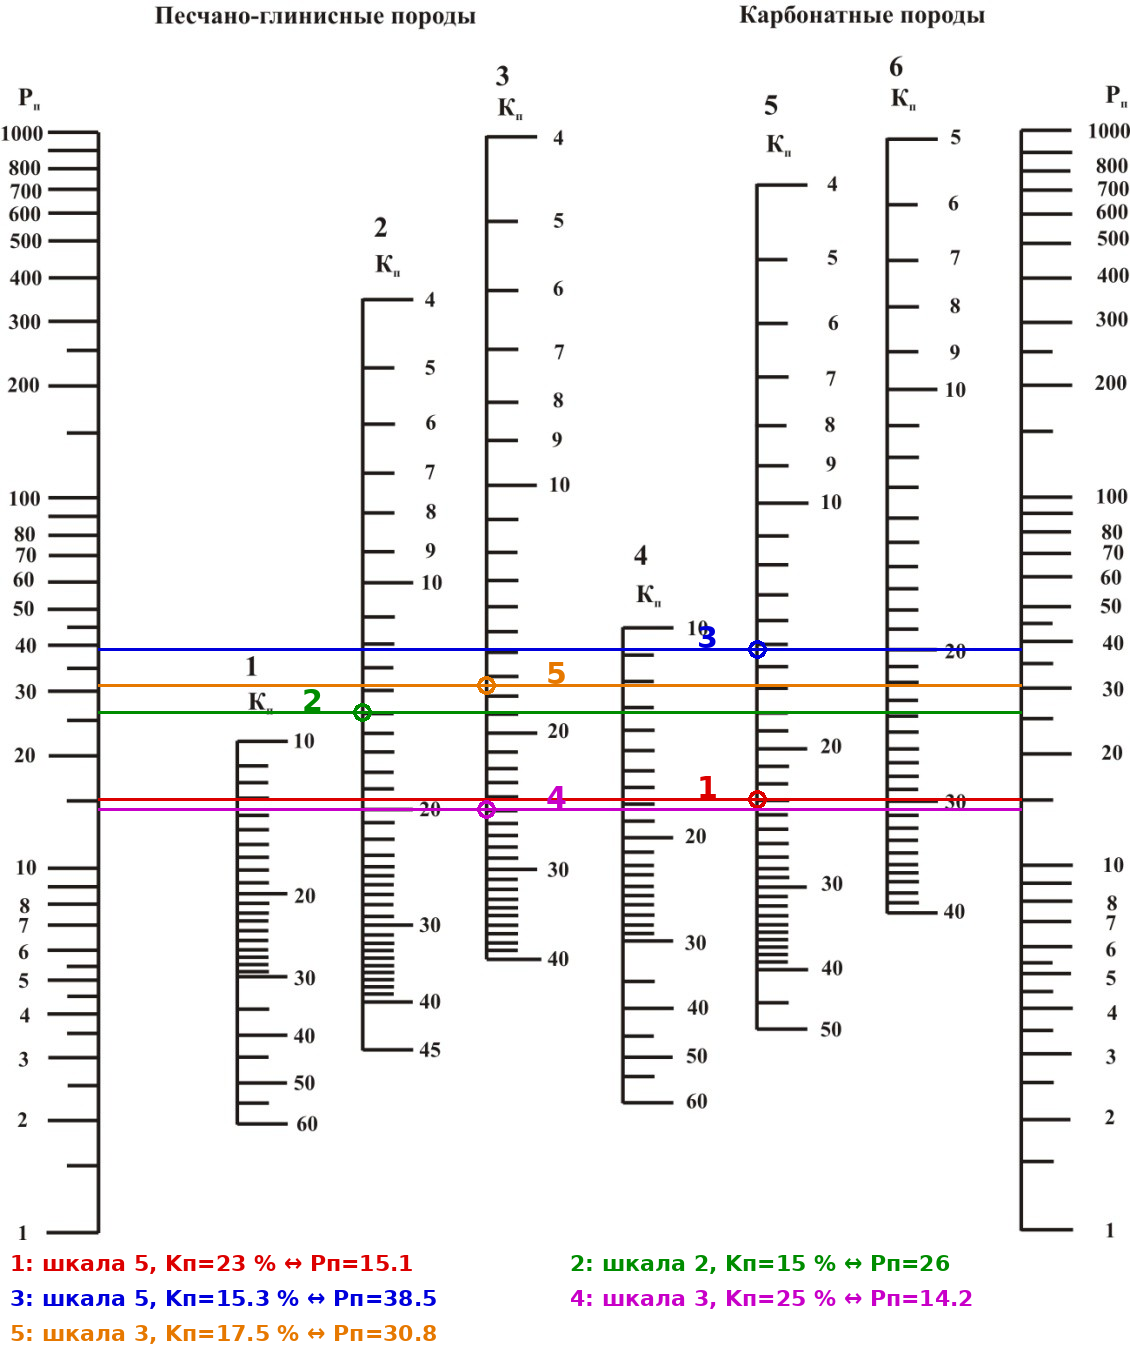
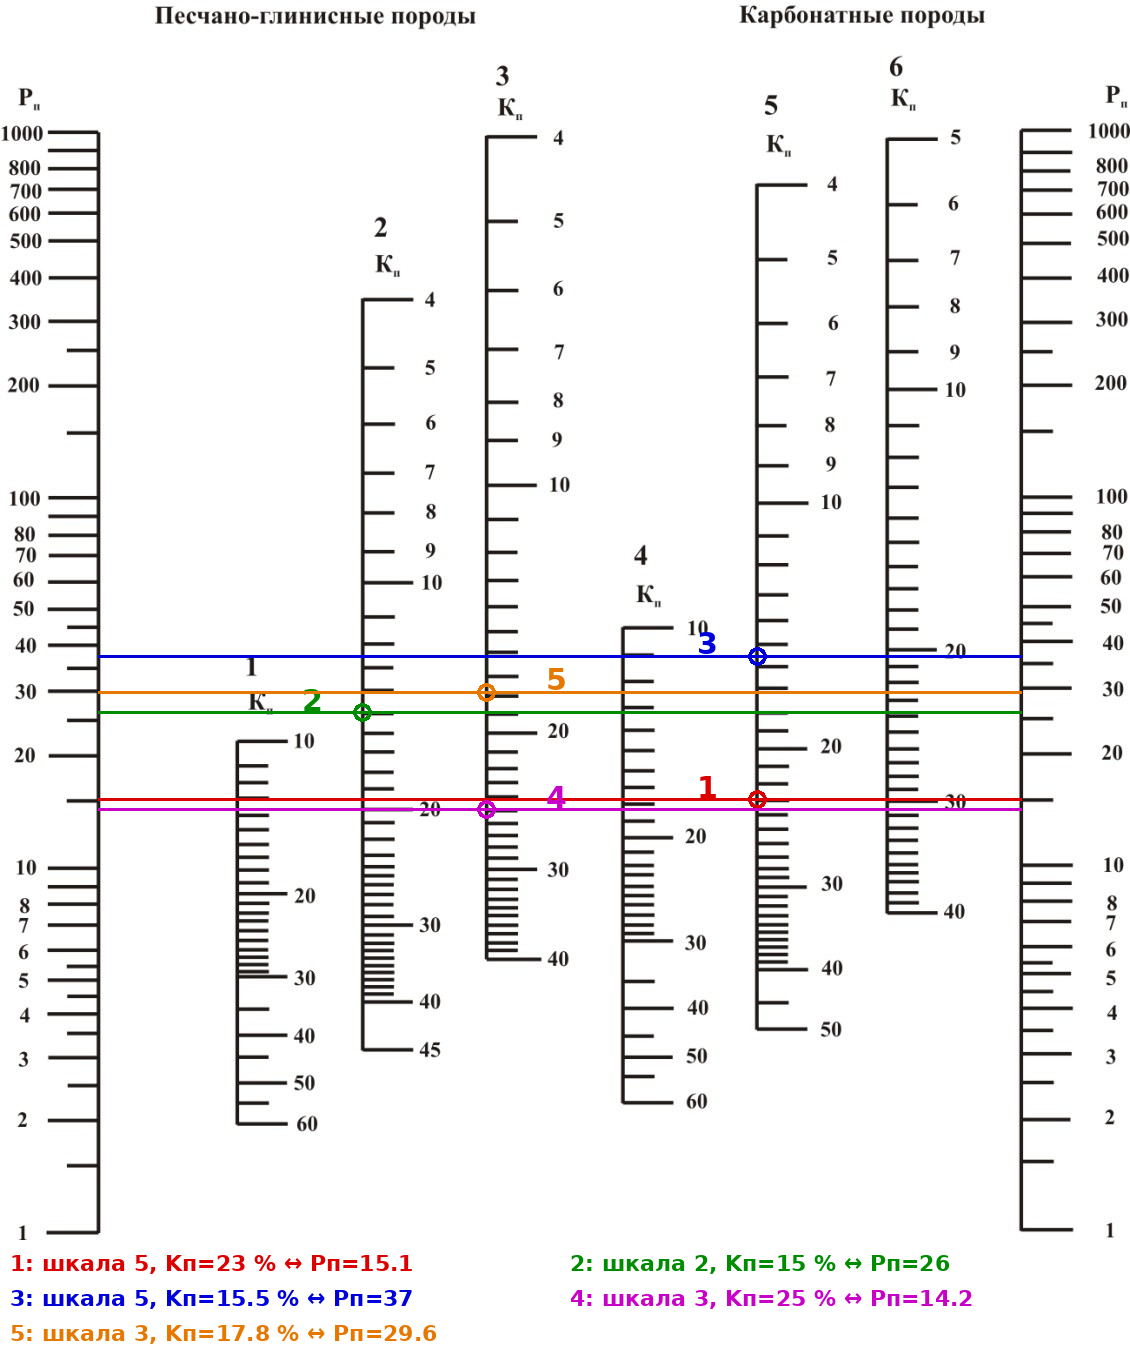
ДЗ-1 (вариант 4): решение, построения на палетках ρв/Pп/Pн; оцифровка палетки ρв (ПАЛ стр.24); исправлена таблица номограммы Pн (Л03 сл.15)
Claude-Session: https://claude.ai/code/session_016ZZjBPfZXPyDoaEvMWrXzx

Changed region(s): [[0.0929, 0.4632, 0.8982, 0.525], [0.3407, 0.9574, 0.3717, 0.9882]]

diff --git a/03_ДЗ/ДЗ-1/РЕШЕНИЕ.md b/03_ДЗ/ДЗ-1/РЕШЕНИЕ.md
@@ -1,0 +1,77 @@
+# ДЗ-1, вариант 4 — Kп, Kн, УЭС пород-коллекторов
+
+**Задание** (`ДЗ1-а_задание_вариант4.jpg`): выполнить расчёты по определению Kп и Kн, а также УЭС пород-коллекторов; заполнить таблицу.
+**Палетки:** 1-I — ρв растворов NaCl = f(C, t) (= ПАЛ стр. 24, Л03 сл. 6, Лат2007 рис. 1); 9-II — Kп по Pп (= Л03 сл. 9, Лат2007 рис. 4); 6-III — Kв, Kнг по Pн (= Л03 сл. 15, Лат2007 рис. 7а).
+
+## Ответ — заполненная таблица
+
+| № | Порода | Cв | Tпл, °C | Kп, % | Kн, % | ρв, Ом·м | Pп | Pн | ρвп, Ом·м | ρнп, Ом·м |
+|---|---|---|---|---|---|---|---|---|---|---|
+| 1 | Доломит крупнокристаллический, средней уплотнённости | 1,5 кг-экв/м³ | 140 | 23 | **85** | **0,022** | **15** | **19** | **0,33** | 6,3 |
+| 2 | Песчаник слабосцементированный, гидрофобный | 2 кг/м³ | 5 | 15 | 75 | **4,3** | **26** | **76** | **112** | **≈ 8,5·10³** |
+| 3 | Доломит крупнокристаллический, средней уплотнённости | 2,5 кг-экв/м³ | 30 | **15,5** | 65 | **0,054** | **37** | **4,5** | 2 | **9,0** |
+| 4 | Песчаник среднесцементированный | 20 кг/м³ | 60 | 25 | 90 | **0,17** | **14** | **100** | **2,4** | **≈ 240** |
+| 5 | Песчаник среднесцементированный, гидрофобный | 100 кг/м³ | 100 | **18** | **33** | **0,027** | **30** | **3** | 0,8 | 2,4 |
+
+Жирным — найденные величины. Точность снятия с палеток ≈ ±3–5 % (ρв, Pп, Pн), ±0,5–1 % абс. (Kп, Kв).
+
+## Формулы (Л03 сл. 7, 11; Лат2007 формулы (2), (10))
+- ρвп = Pп·ρв — УЭС породы при 100 % водонасыщении (1-й закон Арчи–Дахнова, Pп = aм/Kпᵐ).
+- ρнп = Pн·ρвп = Pн·Pп·ρв — УЭС нефтенасыщенной породы (Pн = aн/Kвⁿ).
+- Отсюда: Pп = ρвп/ρв; Pн = ρнп/ρвп; Kн = 100 − Kв (%).
+
+## Как пользоваться палетками
+- **1-I:** по оси X — концентрация: шкала **C, кг/м³ (г/л)** — верхняя; шкала **Cн, кг-экв/м³** — вторая (для строк 1 и 3 отсчитываем прямо по ней; для NaCl 1 кг-экв/м³ ≈ 58,5 кг/м³, т.е. 1,5 → ≈ 88 кг/м³, 2,5 → ≈ 146 кг/м³). Вверх до кривой пластовой температуры → влево, отсчёт ρв. Кривые подписаны t, °C; подписи разрывают кривые — нужную кривую прослеживать до подписи.
+- **9-II:** Kп и Pп — **напротив друг друга по горизонтали**; шкала по типу породы: доломит крупнокристаллический средней уплотнённости → шкала «известняки и доломиты крупнокристаллические, средней уплотнённости»; песчаники — «слабо-» / «среднесцементированные».
+- **6-III:** Pн ↔ Kв (Kнг) по горизонтали; доломиты → «карбонатные коллекторы»; гидрофобные песчаники → «гидрофобные».
+
+## Решение по строкам
+
+**1. Доломит, Cн = 1,5 кг-экв/м³, 140 °C, Kп = 23 %, ρнп = 6,3 Ом·м**
+1. Палетка 1-I: Cн = 1,5 → кривая 140 °C → **ρв ≈ 0,022 Ом·м**.
+2. Номограмма 9-II (доломиты крупнокрист., средн. уплотн.): Kп = 23 % → **Pп ≈ 15**.
+3. ρвп = Pп·ρв = 15,1·0,022 = **0,33 Ом·м**.
+4. Pн = ρнп/ρвп = 6,3/0,33 = **19**.
+5. Номограмма 6-III (карбонатные): Pн = 19 → Kв ≈ 15 % → **Kн = 100 − 15 = 85 %**.
+
+**2. Песчаник слабосцементированный, гидрофобный, C = 2 кг/м³, 5 °C, Kп = 15 %, Kн = 75 %**
+1. 1-I: C = 2 → кривые 0 °C (ρ ≈ 4,9) и 10 °C (ρ ≈ 3,75); 5 °C — посередине (в логарифмах) → **ρв ≈ 4,3 Ом·м**.
+2. 9-II (слабосцементированные песчаники): Kп = 15 % → **Pп ≈ 26**.
+3. ρвп = 26·4,3 = **112 Ом·м**.
+4. Kв = 100 − 75 = 25 % → 6-III (гидрофобные) → **Pн ≈ 76**.
+5. ρнп = Pн·ρвп = 76·112 ≈ **8,5·10³ Ом·м** (очень пресная вода и низкая температура → огромное сопротивление).
+
+**3. Доломит, Cн = 2,5 кг-экв/м³, 30 °C, Kн = 65 %, ρвп = 2 Ом·м**
+1. 1-I: Cн = 2,5 → кривая 30 °C → **ρв ≈ 0,054 Ом·м**.
+2. Pп = ρвп/ρв = 2/0,054 = **37**.
+3. 9-II (доломиты крупнокрист., средн. уплотн.): Pп = 37 → **Kп ≈ 15,5 %**.
+4. Kв = 100 − 65 = 35 % → 6-III (карбонатные) → **Pн ≈ 4,5**.
+5. ρнп = 4,5·2 = **9,0 Ом·м**.
+
+**4. Песчаник среднесцементированный, C = 20 кг/м³, 60 °C, Kп = 25 %, Kн = 90 %**
+1. 1-I: C = 20 → кривая 60 °C → **ρв ≈ 0,17 Ом·м** (0,167).
+2. 9-II (среднесцементированные песчаники): Kп = 25 % → **Pп ≈ 14**.
+3. ρвп = 14,2·0,167 = **2,4 Ом·м**.
+4. Kв = 10 % → 6-III. Смачиваемость в задании не указана → принят **гидрофильный** (обычный случай) → **Pн ≈ 100** (совпадает с Арчи при n = 2: 1/0,1² = 100).
+5. ρнп = 100·2,37 ≈ **240 Ом·м**.
+   *(Если преподаватель считает его гидрофобным — по той же шкале, что в строках 2 и 5, Pн при Kв = 10 % > 1000, т.е. ρнп > 2,4·10³; слабогидрофобный — Pн ≈ 300, ρнп ≈ 700 Ом·м.)*
+
+**5. Песчаник среднесцементированный, гидрофобный, C = 100 кг/м³, 100 °C, ρвп = 0,8, ρнп = 2,4 Ом·м**
+1. 1-I: C = 100 → кривая 100 °C → **ρв ≈ 0,027 Ом·м**.
+2. Pп = 0,8/0,027 = **30** → 9-II (среднесцементированные) → **Kп ≈ 18 %**.
+3. Pн = ρнп/ρвп = 2,4/0,8 = **3**.
+4. 6-III (гидрофобные): Pн = 3 → Kв ≈ 67 % → **Kн ≈ 33 %** (по фото оригинала до 68/32 — в пределах точности).
+
+## Построения
+- Палетка ρв (пять точек): ![](img/ДЗ1_1_ρв_палетка.png)
+- Номограмма Pп ↔ Kп: ![](img/ДЗ1_2_Pп_номограмма.png)
+- Номограмма Pн ↔ Kв (на этой перерисовке правая шкала Pн чуть выше левой, поэтому линии слегка наклонные — это горизонтали оригинала): ![](img/ДЗ1_3_Pн_номограмма.png)
+
+## Проверка
+Все значения сняты пиксельной калибровкой сканов и **независимо перепроверены 4 параллельными проверками**: ρв по скану и по фото палетки; Pп и Pн по перерисовке и по фото; логика, выбор шкал и арифметика.
+- **ρв:** расхождение между проверками ≤ 4 %. Контроль по примерам Латышовой (Cн = 0,4, 18 °C → 0,3; 0,46 при 20 °C → 0,27 при 50 °C) — сходится. Формула Арпса (из общих знаний) даёт тот же порядок: 0,024 / 4,4 / 0,052 / 0,17 / 0,029.
+- **Pп, Pн:** расхождение ≤ 2 %.
+- **Правдоподобие** (Л03 сл. 12):
+  - гидрофобные: n = lg Pн / lg(1/Kв) ≈ 2,7–3,1 — в пределах 2,5–5;
+  - гидрофильный: n = 2;
+  - карбонатная шкала номограммы степенному закону с одним n не подчиняется — брать только с номограммы.

diff --git a/конспекты/Л03_УЭС_пород.md b/конспекты/Л03_УЭС_пород.md
@@ -152,20 +152,30 @@ $$P_н = \frac{a_n}{K_в^n}$$
 - **Карбонатные коллекторы** (Kнг 0–97 / Kв 3–100);
 - **Песчано-глинистые коллекторы:** гидрофильные (Kнг 0–96 / Kв 4–100); слабогидрофобные (Kнг 0–93 / Kв 7–100); гидрофобные (Kнг 0–88 / Kв 12–100).
 
-Значения, снятые с изображения 300 dpi (положение делений на лог. шкале Pн 1000 ↔ 1), точность ≈ ±5 %:
+⭐ **Оцифровка (переснята 2026-10-19, ДЗ-1; старая таблица была ошибочной).** Пиксельная калибровка картинки слайда (1416×1873): левая шкала Pн 1000/100/10/1 → y 147,5/698,5/1251,5/1787; правая — 134,5/683,5/1231/1765 (на перерисовке правая выше на 13–22 px → уровень Pн интерполируется по x шкалы); значение по подписанным делениям + лог-интерполяция. Точность ≈ ±3 %. Независимо перепроверено.
 
-| Kв, % | Карбонатные | Песч.-глин. гидрофильные | слабогидрофобные | гидрофобные |
+| Kв, % | Карбонатные | Гидрофильные | Слабогидрофобные | Гидрофобные |
 |---|---|---|---|---|
-| 3 | 730 | — | — | — |
-| 4 | — | 800 | — | — |
-| 5 | 180 | 450 | — | — |
-| 10 | 29 | 74 | 270 | — |
-| 12 | — | — | — | 920 |
-| 20 | 5,9 | 12 | 30 | 127 |
-| 30 | 2,8 | 4,2 | 4,1 | 28 |
-| 50 | 1,15 | 1,36 | 2,25 | 4,0 |
-| 70 | — | — | — | 1,2 |
-| 100 | 1 | 1 | 1 | 1 |
+| 3 | 754 | — | — | — |
+| 4 | 373 | 803 | — | — |
+| 5 | 222 | 488 | — | — |
+| 7 | 103 | 223 | 816 | — |
+| 10 | 45,6 | 101 | 311 | — |
+| 12 | — | 66,9 | 185 | 890 |
+| 15 | 19,5 | 40,2 | 100 | 408 |
+| 20 | 11,2 | 20,6 | 45,8 | 158 |
+| 25 | 7,86 | 12,4 | 15,9 | 76,3 |
+| 30 | 5,73 | 8,12 | 7,76 | 42,1 |
+| 40 | 3,68 | 4,49 | 5,72 | 15,6 |
+| 50 | 2,6 | 2,97 | 4,56 | 7,48 |
+| 60 | 1,93 | 2,2 | 2,88 | 4,08 |
+| 70 | 1,57 | 1,67 | 2,02 | 2,56 |
+| 80 | 1,29 | 1,36 | 1,51 | 1,71 |
+| 90 | 1,13 | 1,1 | 1,21 | 1,22 |
+| 100 | 1 | 1 | 1,01 | 1,01 |
+
+⚠ **Слабогидрофобные при Kв = 25–40 %** — на перерисовке шкала искажена (Kв 30 даёт Pн меньше, чем у гидрофильных, — так быть не может); по фото оригинала (`03_ДЗ/ДЗ-1/ДЗ1-г_номограмма_6-III_Pн.jpg`) Kв 30 → Pн ≈ 11. Для этой шкалы снимать по фото оригинала.
+⚠ Карбонатная шкала **не** подчиняется одному закону Pн = 1/Kвⁿ (n ≈ 1,9 при малых Kв и ≈ 1,4 при больших) — значения брать только с номограммы.
 
 Kнг = 100 − Kв (шкалы Kнг слева от каждой оси — то же самое). Картинка: `рисунки/Л03/стр015.jpg`. [Альбом палеток и номограмм…]
 

diff --git a/конспекты/ПАЛ_Палетки_БК_ИК_СП.md b/конспекты/ПАЛ_Палетки_БК_ИК_СП.md
@@ -129,6 +129,27 @@
 Применение: (1) ρв по минерализации и температуре; (2) **пересчёт ρ раствора/фильтрата с одной температуры на другую**: найти точку (ρ, t₁) → по вертикали (та же концентрация) до кривой t₂ → новое ρ.
 Для разбавленных растворов можно формулой Арпса *(общие знания)*: $\rho_{t_2} = \rho_{t_1}\dfrac{t_1 + 21{,}5}{t_2 + 21{,}5}$ (t в °С).
 
+⭐ **Оцифровка (ДЗ-1, 2026-10-19).** Рендер 300 dpi (2481×3508):
+- **Ось X, шкала C:** x = 405 + 510,3·(lg C + 1), т.е. 0,1/1/10/100 → x 405/916/1426/1937.
+- **Ось X, шкала Cн:** у неё **собственные деления**, они чуть левее пересчёта ×58,5. Положения: 0,1 → 1307; 0,2 → 1460; 0,4 → 1612; 1 → 1812; 2 → 1963; 3 → 2051. Для Cн отсчитывать по ней.
+- **Ось Y:** ρв = 100/10/1/0,1/0,01 → y 430/957/1478/1994/2508 (у левого края). Скан повёрнут: справа сетка ниже на ≈ 8 px, поэтому у правого края калибровать по ближайшим линиям сетки.
+- **Порядок кривых сверху вниз:** 0, 10, 18, 20, 30, 40, 50, 60, 70, 80, 90, 100, 120, 140 °C. Кривые 160, 180, 200 короче, слева.
+- **Концы кривых у C = 300:** 0 °C ≈ 0,072; 18 °C ≈ 0,046; 30 °C ≈ 0,035; 40 °C ≈ 0,029; 50 °C ≈ 0,026.
+- ⚠ Подписи 40, 60, 80, 100, 120, 140, 160 разрывают кривые. При слежении легко перескочить на соседнюю кривую — проверять подсчётом кривых сверху.
+
+Снятые точки (точность ±3–4 %, независимо перепроверены):
+
+| C или Cн | t, °C | ρв, Ом·м | Где |
+|---|---|---|---|
+| C = 2 кг/м³ | 0 / 10 / 18 / 20 | 4,9 / 3,75 / 3,0 / 2,9 | ДЗ-1 стр. 2 (5 °C → 4,3) |
+| C = 20 | 40 / 60 | 0,22 / 0,167 | ДЗ-1 стр. 4 |
+| C = 100 | 100 | 0,027 | ДЗ-1 стр. 5 |
+| Cн = 1,5 кг-экв/м³ | 100 / 140 | 0,030 / 0,022 | ДЗ-1 стр. 1 |
+| Cн = 2,5 | 30 | 0,054 | ДЗ-1 стр. 3 |
+| Cн = 0,4 | 18 | 0,31 | контроль, Лат2007 пример 3 (≈ 0,3) |
+
+Построение — `03_ДЗ/ДЗ-1/img/ДЗ1_1_ρв_палетка.png`.
+
 <!-- стр. 25 -->
 ## Стр. 25. Палетка для определения ρф по известному ρр. Шифр кривых — t, °С
 🖼 Повёрнутый билогарифмический график: ось **ρр, Ом·м** (0,03–5) и ось **ρф, Ом·м** (0,02–5). Пучок кривых t = 0, 10, 20, 30, 40, 50, 60, 80, 100, 120 °С близ биссектрисы: при ρр ≈ 0,1–0,3 кривые перекручиваются (S-образно), при больших ρр **ρф немного меньше ρр** (≈ 0,8–0,9·ρр), при малых — близко к ρр.
